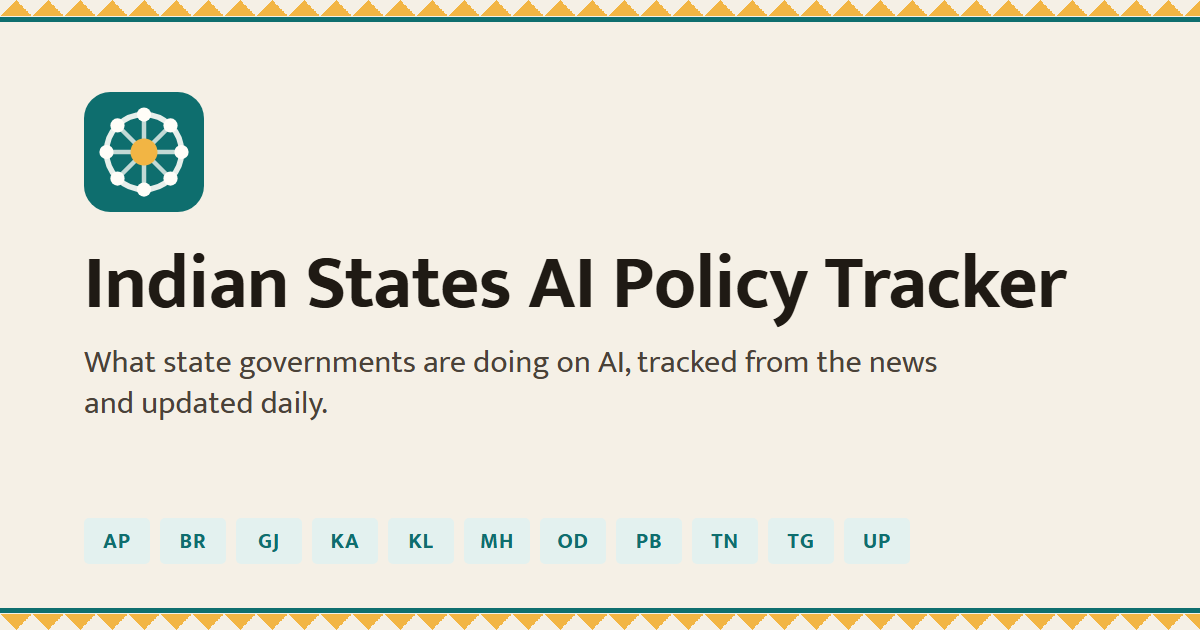
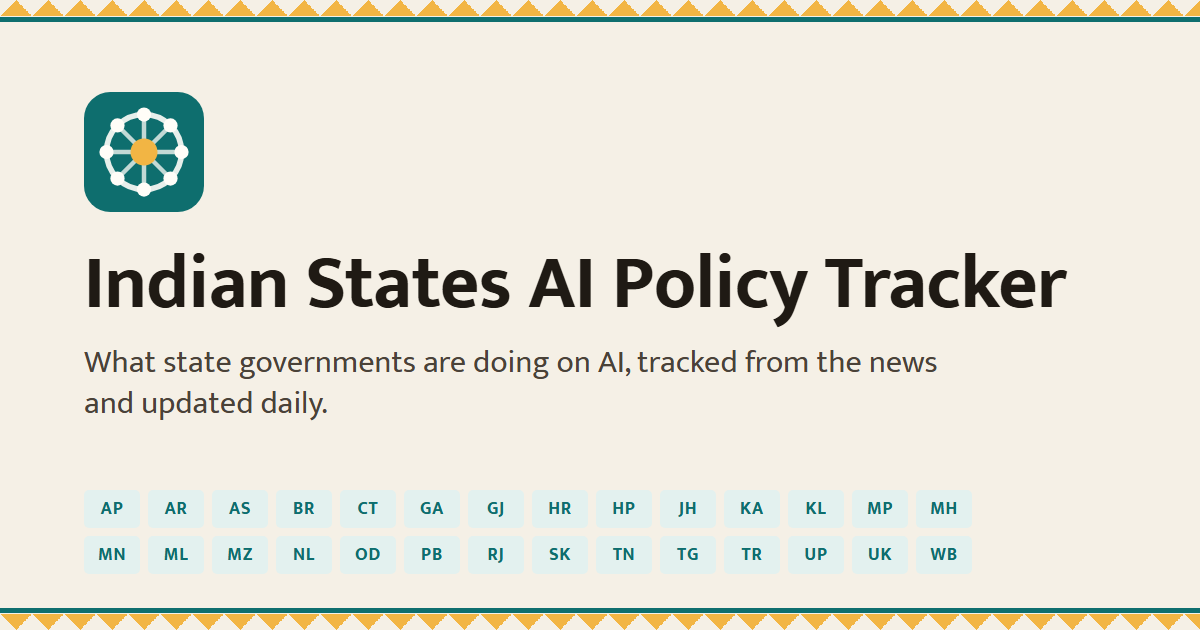
Social card: show all 28 state codes

diff --git a/design/social-card.html b/design/social-card.html
@@ -1,5 +1,5 @@
 <!doctype html>
-<!-- Source of dashboard/social.png (the 1200x630 link-preview image). Regenerate with:
+<!-- Source of dashboard/social.png, the 1200x630 link-preview image. The tiles are the ISO codes of the 28 states covered. Regenerate with:
      chrome --headless=new --hide-scrollbars --window-size=1200,630 --screenshot=dashboard/social.png design/social-card.html
      The mark is the same drawing as dashboard/favicon.svg; keep them in step. -->
 <html><head><meta charset="utf-8">
@@ -15,13 +15,13 @@ body{background:#f5f0e6;color:#1f1a14;font-family:Mukta,sans-serif;position:rela
 svg{width:120px;height:120px;display:block}
 h1{font-size:76px;line-height:1.02;font-weight:700;margin:34px 0 18px;letter-spacing:-0.01em}
 p{font-size:32px;line-height:1.3;margin:0;color:#4a4238;max-width:900px}
-.codes{position:absolute;left:84px;bottom:66px;display:flex;gap:10px}
-.codes span{width:66px;height:46px;display:grid;place-items:center;background:#e3f1ef;color:#0e6e6e;font-weight:700;font-size:22px;border-radius:5px;letter-spacing:.04em}
+.codes{position:absolute;left:84px;bottom:56px;display:grid;grid-template-columns:repeat(14,56px);gap:8px}
+.codes span{height:38px;display:grid;place-items:center;background:#e3f1ef;color:#0e6e6e;font-weight:700;font-size:18px;border-radius:5px;letter-spacing:.04em}
 </style></head><body>
 <div class="band"></div>
 <div class="wrap"><svg viewBox="0 0 32 32"><rect width="32" height="32" rx="7" fill="#0e6e6e"/><circle cx="16" cy="16" r="10" fill="none" stroke="#fffdf8" stroke-width="1.5" stroke-opacity="0.9"/><g stroke="#fffdf8" stroke-width="1.2" stroke-opacity="0.75"><line x1="16" y1="16" x2="16" y2="6"/><line x1="16" y1="16" x2="23.07" y2="8.93"/><line x1="16" y1="16" x2="26" y2="16"/><line x1="16" y1="16" x2="23.07" y2="23.07"/><line x1="16" y1="16" x2="16" y2="26"/><line x1="16" y1="16" x2="8.93" y2="23.07"/><line x1="16" y1="16" x2="6" y2="16"/><line x1="16" y1="16" x2="8.93" y2="8.93"/></g><g fill="#fffdf8"><circle cx="16" cy="6" r="1.9"/><circle cx="23.07" cy="8.93" r="1.9"/><circle cx="26" cy="16" r="1.9"/><circle cx="23.07" cy="23.07" r="1.9"/><circle cx="16" cy="26" r="1.9"/><circle cx="8.93" cy="23.07" r="1.9"/><circle cx="6" cy="16" r="1.9"/><circle cx="8.93" cy="8.93" r="1.9"/></g><circle cx="16" cy="16" r="3.6" fill="#f2b544"/></svg>
 <h1>Indian States AI Policy Tracker</h1>
 <p>What state governments are doing on AI, tracked from the news and updated daily.</p></div>
-<div class="codes"><span>AP</span><span>BR</span><span>GJ</span><span>KA</span><span>KL</span><span>MH</span><span>OD</span><span>PB</span><span>TN</span><span>TG</span><span>UP</span></div>
+<div class="codes"><span>AP</span><span>AR</span><span>AS</span><span>BR</span><span>CT</span><span>GA</span><span>GJ</span><span>HR</span><span>HP</span><span>JH</span><span>KA</span><span>KL</span><span>MP</span><span>MH</span><span>MN</span><span>ML</span><span>MZ</span><span>NL</span><span>OD</span><span>PB</span><span>RJ</span><span>SK</span><span>TN</span><span>TG</span><span>TR</span><span>UP</span><span>UK</span><span>WB</span></div>
 <div class="band b"></div>
 </body></html>
